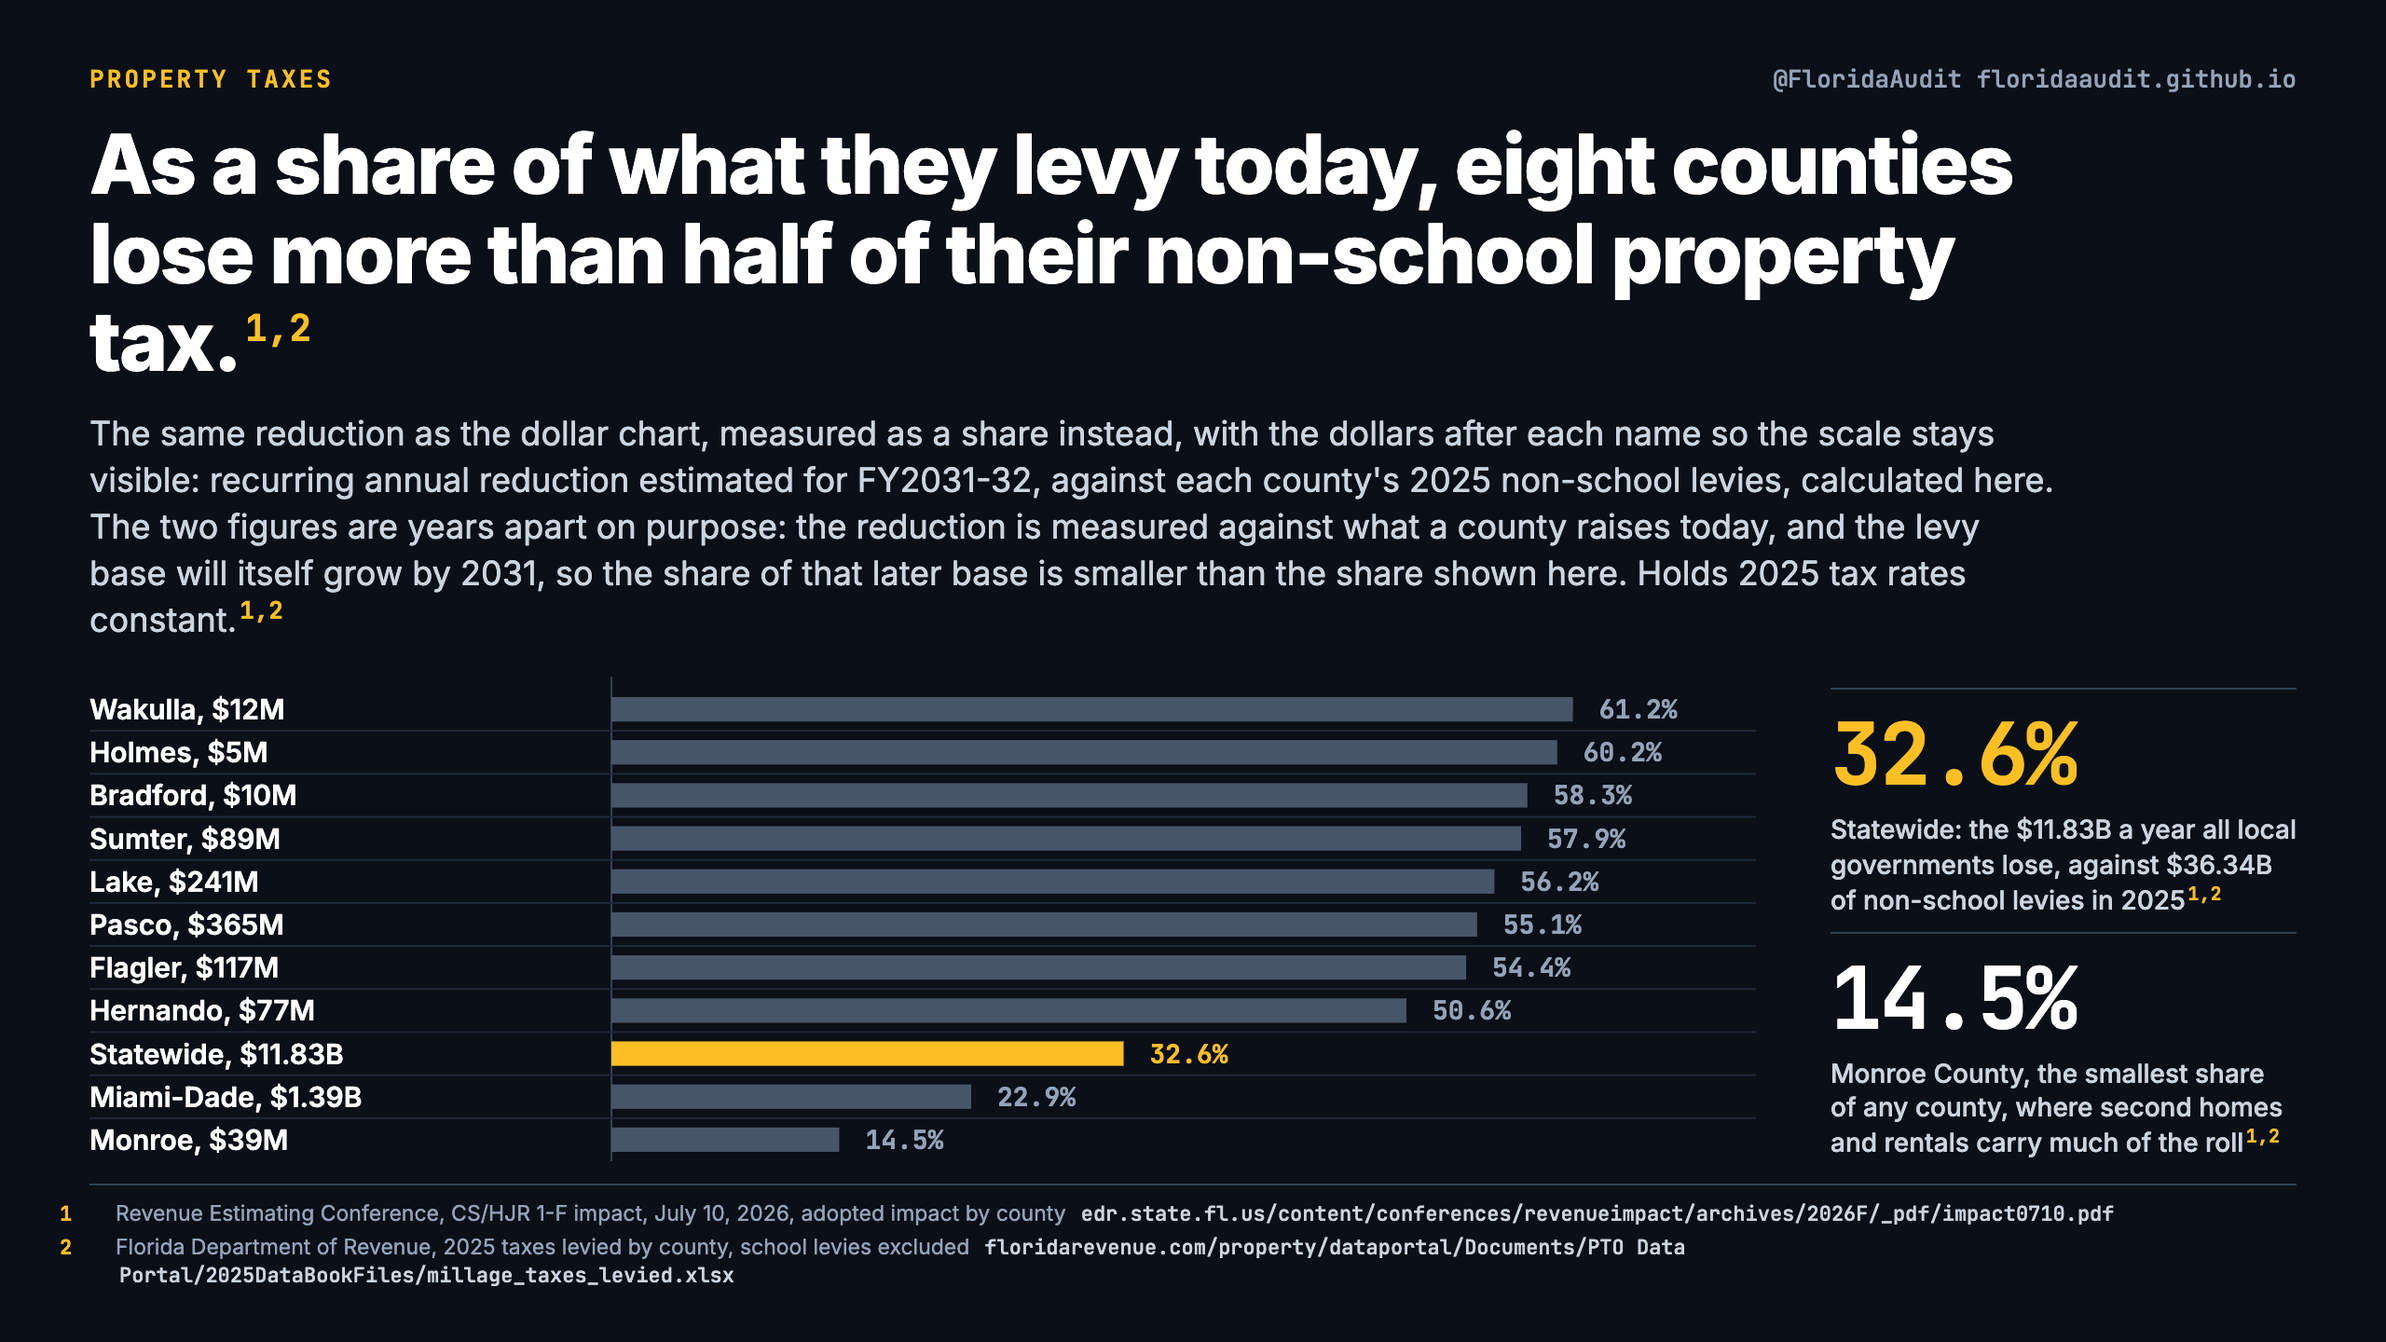
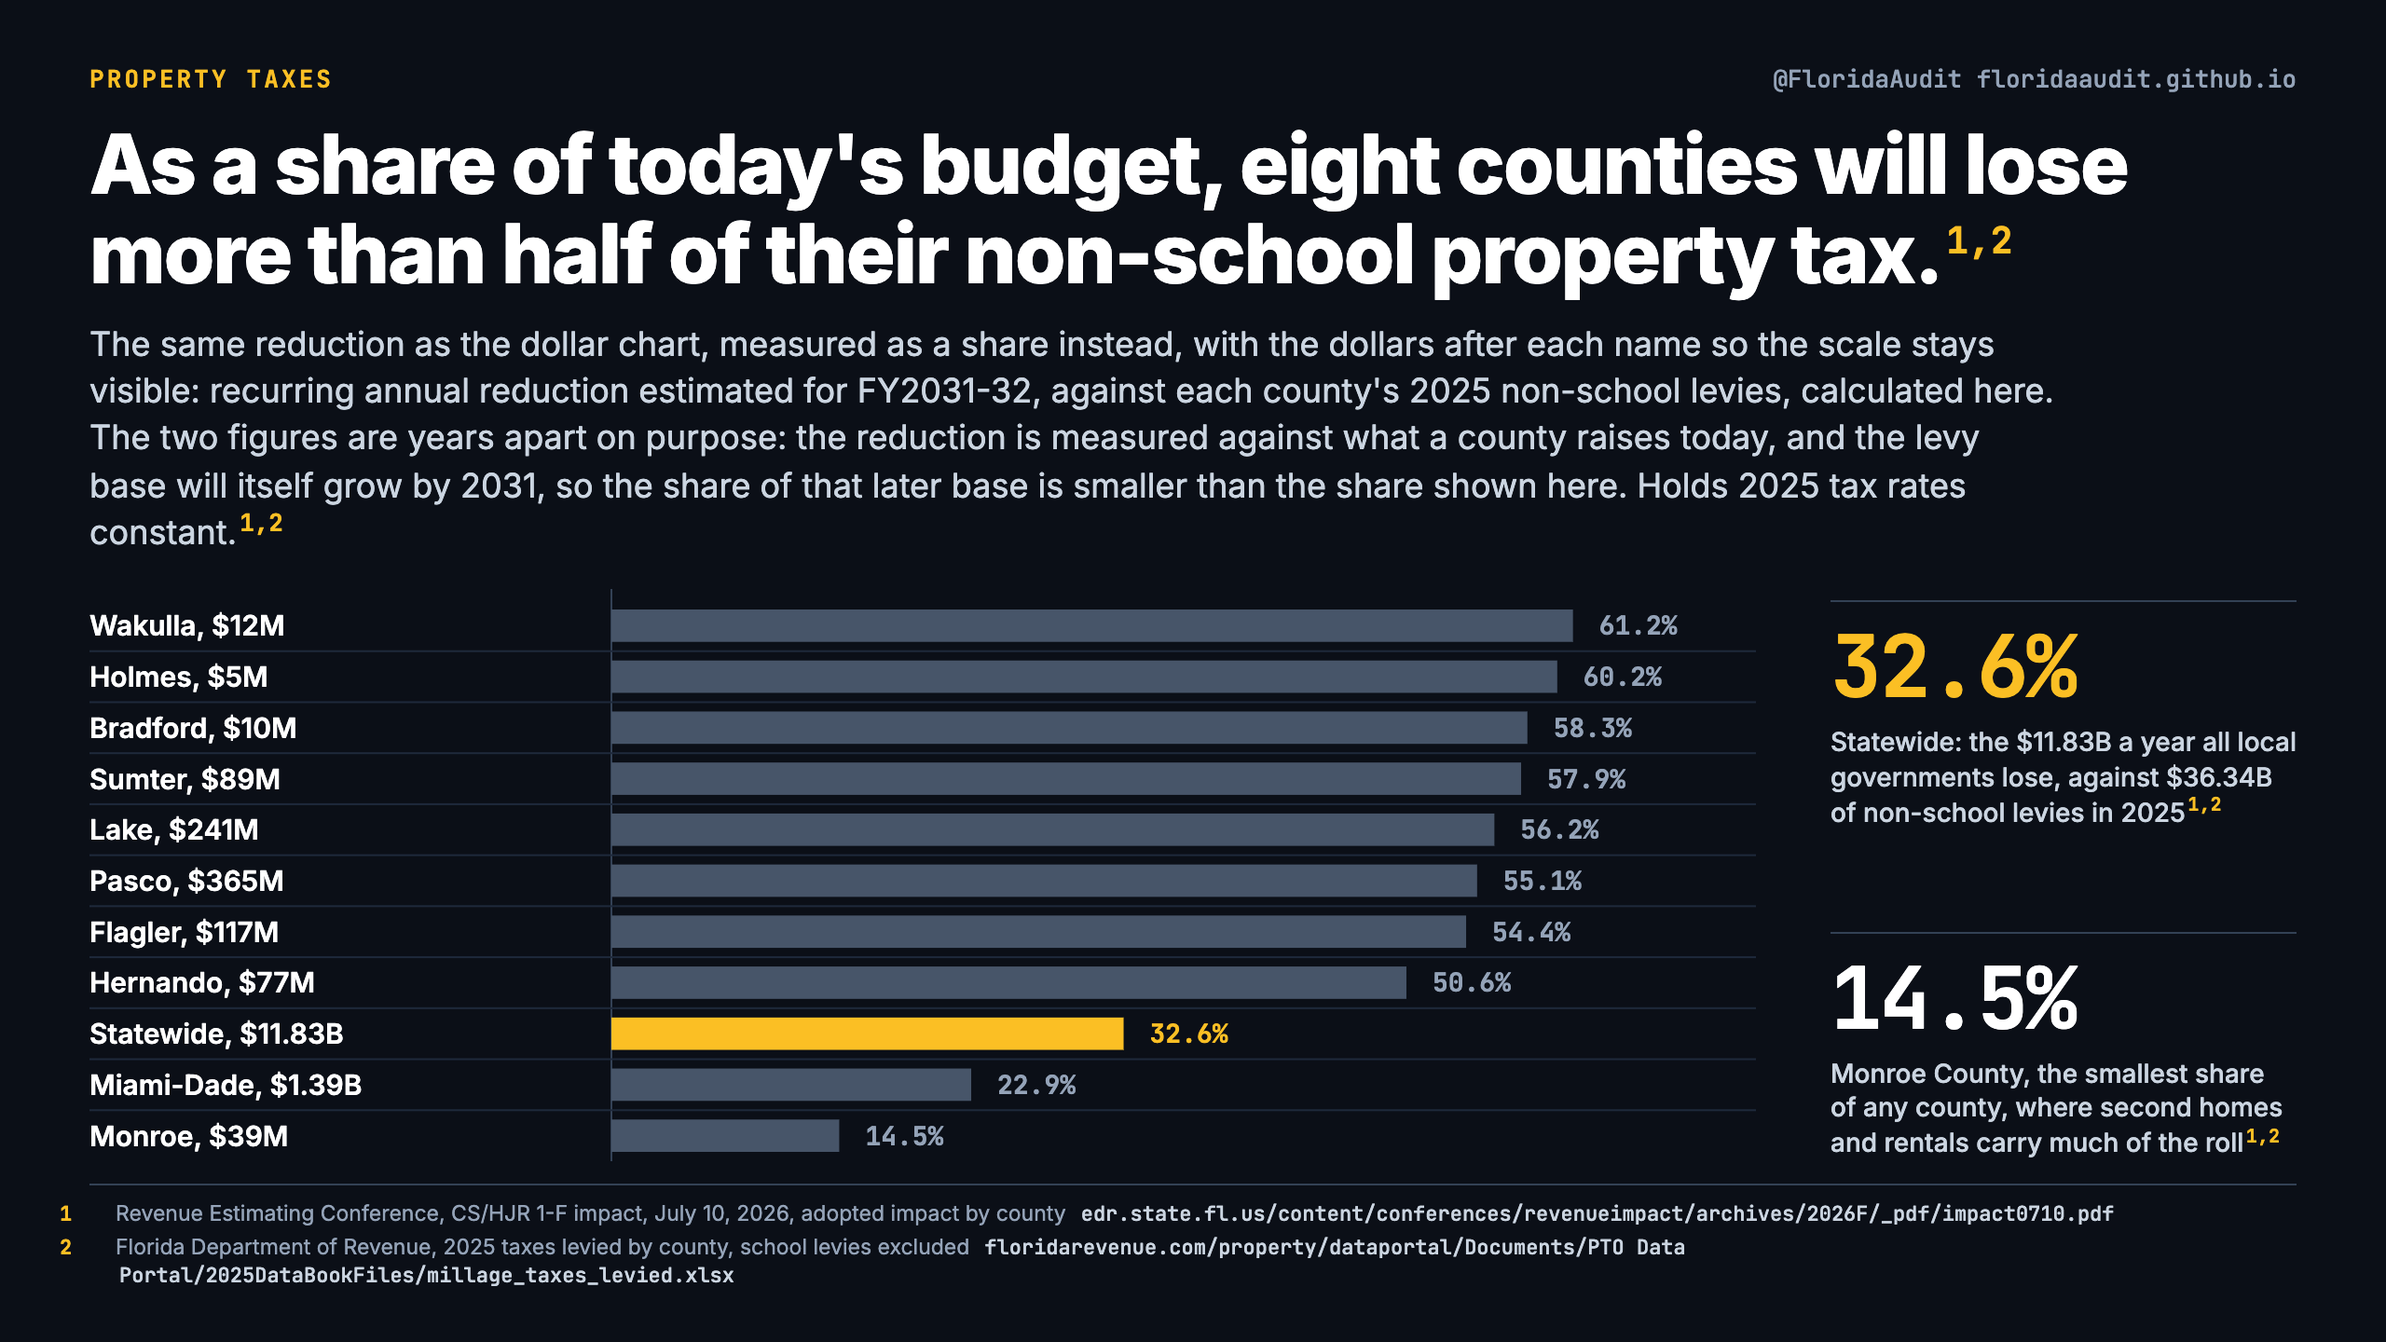
Release charts through 2026-09-29

Changed region(s): [[0.0312, 0.0938, 0.9062, 0.875], [0.75, 0.4688, 0.9688, 0.6875]]

diff --git a/c/property-taxes/impact-by-county.html b/c/property-taxes/impact-by-county.html
@@ -3,32 +3,32 @@
 <head>
   <meta charset="utf-8">
   <meta name="viewport" content="width=device-width, initial-scale=1">
-  <title>As a share of what they levy today, eight counties lose more than half of their non-school property tax. · Florida Audit Project</title>
+  <title>As a share of today's budget, eight counties will lose more than half of their non-school property tax. · Florida Audit Project</title>
   <meta name="description" content="Property Taxes: The same reduction as the dollar chart, measured as a share instead, with the dollars after each name so the scale stays visible: recurring...">
   <link rel="canonical" href="https://floridaaudit.github.io/c/property-taxes/impact-by-county.html">
   <meta name="robots" content="index, follow, max-image-preview:large">
   <meta property="og:type" content="article">
   <meta property="og:site_name" content="Florida Audit Project">
-  <meta property="og:title" content="As a share of what they levy today, eight counties lose more than half of their non-school property tax.">
+  <meta property="og:title" content="As a share of today's budget, eight counties will lose more than half of their non-school property tax.">
   <meta property="og:description" content="Property Taxes: The same reduction as the dollar chart, measured as a share instead, with the dollars after each name so the scale stays visible: recurring...">
   <meta property="og:url" content="https://floridaaudit.github.io/c/property-taxes/impact-by-county.html">
   <meta property="og:image" content="https://floridaaudit.github.io/charts/property-taxes/impact-by-county-card.png">
   <meta property="og:image:width" content="1200">
   <meta property="og:image:height" content="630">
-  <meta property="og:image:alt" content="As a share of what they levy today, eight counties lose more than half of their non-school property tax. The same reduction as the dollar chart, measured as a share instead, with the dollars after each name so the scale stays visible: recurring annual reduction estimated for FY2031-32, against each county's 2025 non-school levies, calculated here. The two figures are years apart on purpose: the reduction is measured against what a county raises today, and the levy base will itself grow by 2031, so the share of that later base is smaller than the share shown here. Holds 2025 tax rates constant.">
+  <meta property="og:image:alt" content="As a share of today's budget, eight counties will lose more than half of their non-school property tax. The same reduction as the dollar chart, measured as a share instead, with the dollars after each name so the scale stays visible: recurring annual reduction estimated for FY2031-32, against each county's 2025 non-school levies, calculated here. The two figures are years apart on purpose: the reduction is measured against what a county raises today, and the levy base will itself grow by 2031, so the share of that later base is smaller than the share shown here. Holds 2025 tax rates constant.">
   <meta name="twitter:card" content="summary_large_image">
   <meta name="twitter:site" content="@FloridaAudit">
-  <meta name="twitter:title" content="As a share of what they levy today, eight counties lose more than half of their non-school property tax.">
+  <meta name="twitter:title" content="As a share of today's budget, eight counties will lose more than half of their non-school property tax.">
   <meta name="twitter:description" content="Property Taxes: The same reduction as the dollar chart, measured as a share instead, with the dollars after each name so the scale stays visible: recurring...">
   <meta name="twitter:image" content="https://floridaaudit.github.io/charts/property-taxes/impact-by-county-card.png">
-  <meta name="twitter:image:alt" content="As a share of what they levy today, eight counties lose more than half of their non-school property tax. The same reduction as the dollar chart, measured as a share instead, with the dollars after each name so the scale stays visible: recurring annual reduction estimated for FY2031-32, against each county's 2025 non-school levies, calculated here. The two figures are years apart on purpose: the reduction is measured against what a county raises today, and the levy base will itself grow by 2031, so the share of that later base is smaller than the share shown here. Holds 2025 tax rates constant.">
+  <meta name="twitter:image:alt" content="As a share of today's budget, eight counties will lose more than half of their non-school property tax. The same reduction as the dollar chart, measured as a share instead, with the dollars after each name so the scale stays visible: recurring annual reduction estimated for FY2031-32, against each county's 2025 non-school levies, calculated here. The two figures are years apart on purpose: the reduction is measured against what a county raises today, and the levy base will itself grow by 2031, so the share of that later base is smaller than the share shown here. Holds 2025 tax rates constant.">
   <link rel="icon" href="/assets/favicon.png" type="image/png">
   <link rel="stylesheet" href="/assets/site.css">
   <script type="application/ld+json">
 {
   "@context": "https://schema.org",
   "@type": "Dataset",
-  "name": "As a share of what they levy today, eight counties lose more than half of their non-school property tax.",
+  "name": "As a share of today's budget, eight counties will lose more than half of their non-school property tax.",
   "description": "Property Taxes: The same reduction as the dollar chart, measured as a share instead, with the dollars after each name so the scale stays visible: recurring...",
   "url": "https://floridaaudit.github.io/c/property-taxes/impact-by-county.html",
   "license": "https://creativecommons.org/publicdomain/zero/1.0/",
@@ -68,10 +68,10 @@
 <main>
   <article>
     <p class="kicker">Property Taxes</p>
-    <h1>As a share of what they levy today, eight counties lose more than half of their non-school property tax.</h1>
+    <h1>As a share of today's budget, eight counties will lose more than half of their non-school property tax.</h1>
     <p class="sub">The same reduction as the dollar chart, measured as a share instead, with the dollars after each name so the scale stays visible: recurring annual reduction estimated for FY2031-32, against each county's 2025 non-school levies, calculated here. The two figures are years apart on purpose: the reduction is measured against what a county raises today, and the levy base will itself grow by 2031, so the share of that later base is smaller than the share shown here. Holds 2025 tax rates constant.</p>
     <figure>
-      <img src="/charts/property-taxes/impact-by-county.webp" width="1280" height="720" alt="As a share of what they levy today, eight counties lose more than half of their non-school property tax. The same reduction as the dollar chart, measured as a share instead, with the dollars after each name so the scale stays visible: recurring annual reduction estimated for FY2031-32, against each county's 2025 non-school levies, calculated here. The two figures are years apart on purpose: the reduction is measured against what a county raises today, and the levy base will itself grow by 2031, so the share of that later base is smaller than the share shown here. Holds 2025 tax rates constant.">
+      <img src="/charts/property-taxes/impact-by-county.webp" width="1280" height="720" alt="As a share of today's budget, eight counties will lose more than half of their non-school property tax. The same reduction as the dollar chart, measured as a share instead, with the dollars after each name so the scale stays visible: recurring annual reduction estimated for FY2031-32, against each county's 2025 non-school levies, calculated here. The two figures are years apart on purpose: the reduction is measured against what a county raises today, and the levy base will itself grow by 2031, so the share of that later base is smaller than the share shown here. Holds 2025 tax rates constant.">
       <figcaption>Full size: <a href="/charts/property-taxes/impact-by-county.png">PNG, 2560 by 1440</a></figcaption>
     </figure>
     <p class="download"><a href="/data/property-taxes/county-reduction-share.csv">Download the data behind this chart (county-reduction-share.csv)</a></p>

diff --git a/c/property-taxes/index.html b/c/property-taxes/index.html
@@ -34,7 +34,7 @@
       <li><a href="/c/property-taxes/local-revenue-impact.html"><img src="/charts/property-taxes/local-revenue-impact.webp" width="1280" height="720" alt="Amendment 3 would reduce local non-school property tax revenue by an estimated $11.83 billion a year by 2031. Estimated reduction in local non-school property tax revenue by the government that levies it. On the November 3, 2026 ballot; needs 60% to pass. Ten counties carry $7.54B of it, led by Miami-Dade $1.39B and Broward $1.19B, with all 67 in the CSV. It keeps growing after the exemption stops stepping up in 2028, because the conference counts the sixth year as the recurring impact and the lower assessment cap compounds. Holds 2025 tax rates constant. Nominal dollars." loading="lazy"><span>Amendment 3 would reduce local non-school property tax revenue by an estimated $11.83 billion a year by 2031.</span></a></li>
       <li><a href="/c/property-taxes/permitted-uses.html"><img src="/charts/property-taxes/permitted-uses.webp" width="1280" height="720" alt="Amendment 3 lists seven permitted uses for county and city property taxes. Text of the proposed Article VII, Section 9(a)(2). School district and special district levies are not covered by this list." loading="lazy"><span>Amendment 3 lists seven permitted uses for county and city property taxes.</span></a></li>
       <li><a href="/c/property-taxes/the-legislative-vote.html"><img src="/charts/property-taxes/the-legislative-vote.webp" width="1280" height="720" alt="Amendment 3 is on the ballot because the Legislature put it there: 75-26 in the House, 30-9 in the Senate. Votes on June 2, 2026 on CS/HJR 1-F. A joint resolution does not go to the governor." loading="lazy"><span>Amendment 3 is on the ballot because the Legislature put it there: 75-26 in the House, 30-9 in the Senate.</span></a></li>
-      <li><a href="/c/property-taxes/impact-by-county.html"><img src="/charts/property-taxes/impact-by-county.webp" width="1280" height="720" alt="As a share of what they levy today, eight counties lose more than half of their non-school property tax. The same reduction as the dollar chart, measured as a share instead, with the dollars after each name so the scale stays visible: recurring annual reduction estimated for FY2031-32, against each county's 2025 non-school levies, calculated here. The two figures are years apart on purpose: the reduction is measured against what a county raises today, and the levy base will itself grow by 2031, so the share of that later base is smaller than the share shown here. Holds 2025 tax rates constant." loading="lazy"><span>As a share of what they levy today, eight counties lose more than half of their non-school property tax.</span></a></li>
+      <li><a href="/c/property-taxes/impact-by-county.html"><img src="/charts/property-taxes/impact-by-county.webp" width="1280" height="720" alt="As a share of today's budget, eight counties will lose more than half of their non-school property tax. The same reduction as the dollar chart, measured as a share instead, with the dollars after each name so the scale stays visible: recurring annual reduction estimated for FY2031-32, against each county's 2025 non-school levies, calculated here. The two figures are years apart on purpose: the reduction is measured against what a county raises today, and the levy base will itself grow by 2031, so the share of that later base is smaller than the share shown here. Holds 2025 tax rates constant." loading="lazy"><span>As a share of today's budget, eight counties will lose more than half of their non-school property tax.</span></a></li>
       <li><a href="/c/property-taxes/impact-by-county-dollars.html"><img src="/charts/property-taxes/impact-by-county-dollars.webp" width="1280" height="720" alt="Ten counties carry $7.54 billion of the $11.83 billion, and two thirds of it comes off county government. Recurring annual reduction in local non-school property tax revenue once the exemption is fully phased in, for the ten largest of Florida's 67 counties, split between the county government and the cities and special districts inside it. Duval has no county-government bar: Jacksonville and Duval County are one consolidated government, which the table files as a municipality, so its whole reduction sits in the purple bar. All 67 counties are in the CSV behind this chart. Holds 2025 tax rates constant. Nominal dollars." loading="lazy"><span>Ten counties carry $7.54 billion of the $11.83 billion, and two thirds of it comes off county government.</span></a></li>
       <li><a href="/c/property-taxes/non-homestead-assessment-cap.html"><img src="/charts/property-taxes/non-homestead-assessment-cap.webp" width="1280" height="720" alt="The yearly assessment cap on rental and commercial property would fall from 10% to 5%. Maximum annual growth in taxable assessed value for non-homestead, non-agricultural parcels, non-school levies; the current 10% cap has been in place since 2008. The cap limits the value the tax is computed on, not the market price, not the rent, and not the millage rate. The lines are an illustration calculated here, not a forecast: one parcel assessed at $1,000,000 in 2026 whose market value then rises 12% a year, the condition under which a cap binds at all." loading="lazy"><span>The yearly assessment cap on rental and commercial property would fall from 10% to 5%.</span></a></li>
     </ul>

diff --git a/index.html b/index.html
@@ -37,7 +37,7 @@
       <li><a href="/c/property-taxes/local-revenue-impact.html">Amendment 3 would reduce local non-school property tax revenue by an estimated $11.83 billion a year by 2031.</a></li>
       <li><a href="/c/property-taxes/permitted-uses.html">Amendment 3 lists seven permitted uses for county and city property taxes.</a></li>
       <li><a href="/c/property-taxes/the-legislative-vote.html">Amendment 3 is on the ballot because the Legislature put it there: 75-26 in the House, 30-9 in the Senate.</a></li>
-      <li><a href="/c/property-taxes/impact-by-county.html">As a share of what they levy today, eight counties lose more than half of their non-school property tax.</a></li>
+      <li><a href="/c/property-taxes/impact-by-county.html">As a share of today's budget, eight counties will lose more than half of their non-school property tax.</a></li>
       <li><a href="/c/property-taxes/impact-by-county-dollars.html">Ten counties carry $7.54 billion of the $11.83 billion, and two thirds of it comes off county government.</a></li>
       <li><a href="/c/property-taxes/non-homestead-assessment-cap.html">The yearly assessment cap on rental and commercial property would fall from 10% to 5%.</a></li>
     </ul>
